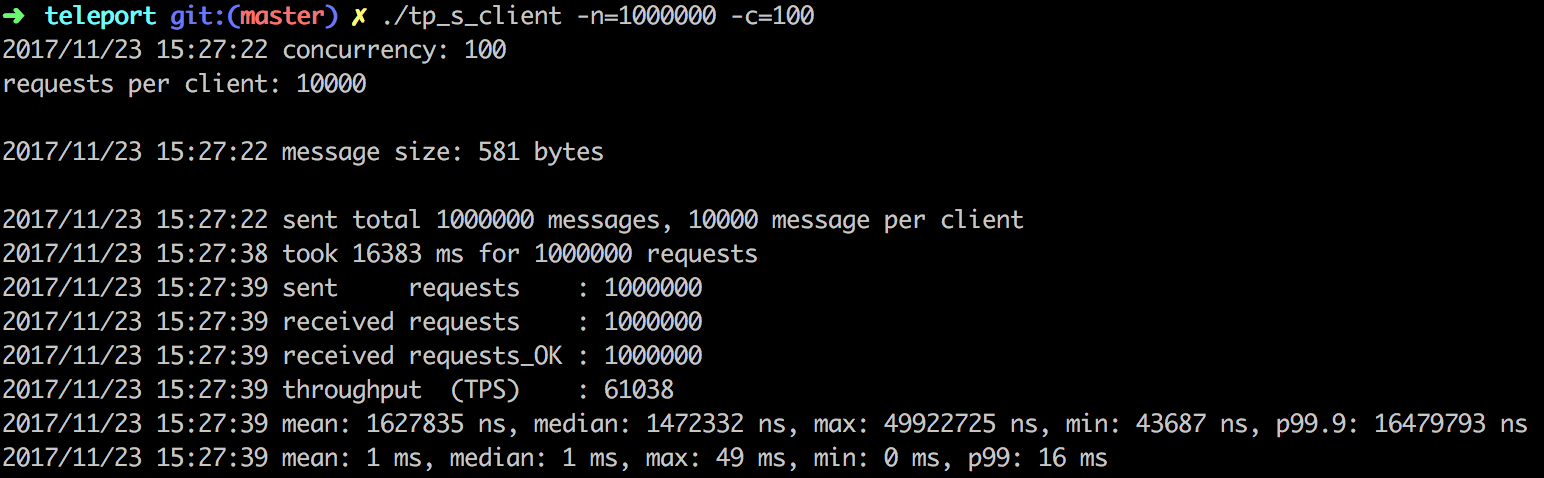
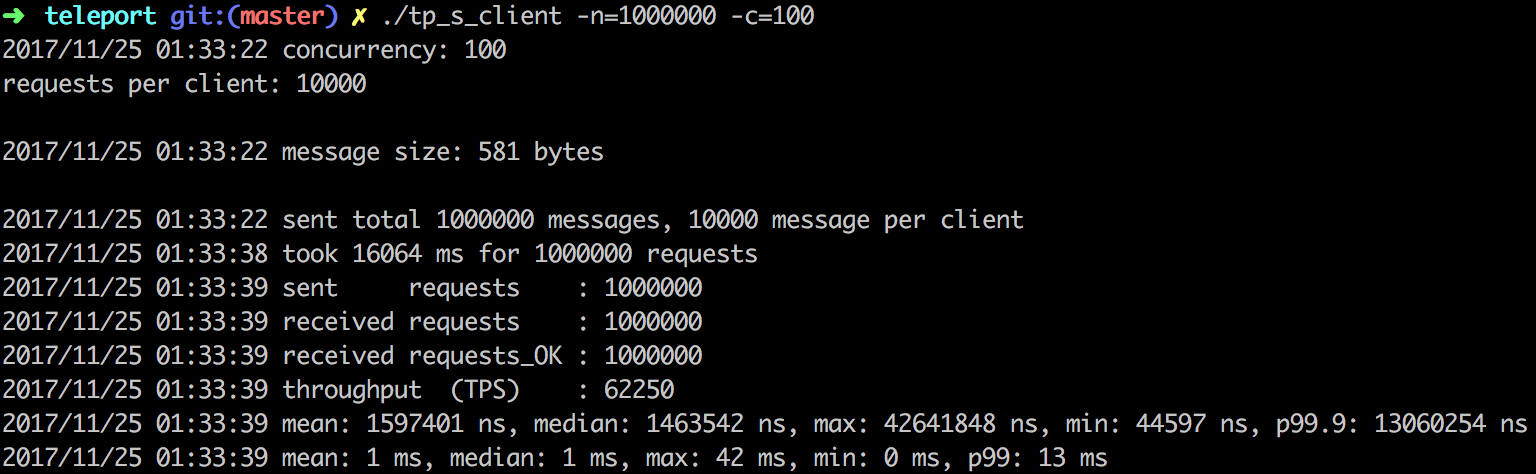
optimize the reader bufio size of fast protocol

Changed region(s): [[0.0, 0.4135, 1.0, 1.0], [0.0, 0.0, 0.5312, 0.2068], [0.0, 0.2954, 0.4062, 0.3544]]

diff --git a/socket/socket.go b/socket/socket.go
@@ -322,6 +322,7 @@ var (
 // Note: Uses the default value, if bytes=1.
 func SetTCPReadBuffer(bytes int) {
 	tcpReadBuffer = bytes
+	resetFastProtoReadBufioSize()
 }
 
 // SetWriteBuffer sets the size of the operating system's
@@ -329,4 +330,20 @@ func SetTCPReadBuffer(bytes int) {
 // Note: Uses the default value, if bytes=1.
 func SetTCPWriteBuffer(bytes int) {
 	tcpWriteBuffer = bytes
+}
+
+var fastProtoReadBufioSize int
+
+func init() {
+	resetFastProtoReadBufioSize()
+}
+
+func resetFastProtoReadBufioSize() {
+	if tcpReadBuffer < 0 {
+		fastProtoReadBufioSize = 1024 * 4
+	} else if tcpReadBuffer == 0 {
+		fastProtoReadBufioSize = 1024 * 35
+	} else {
+		fastProtoReadBufioSize = tcpReadBuffer / 2
+	}
 }

diff --git a/socket/protocol.go b/socket/protocol.go
@@ -69,7 +69,7 @@ var (
 		return &FastProto{
 			id:   'f',
 			name: "fast",
-			r:    bufio.NewReaderSize(rw, 8688),
+			r:    bufio.NewReaderSize(rw, fastProtoReadBufioSize),
 			w:    rw,
 		}
 	}
